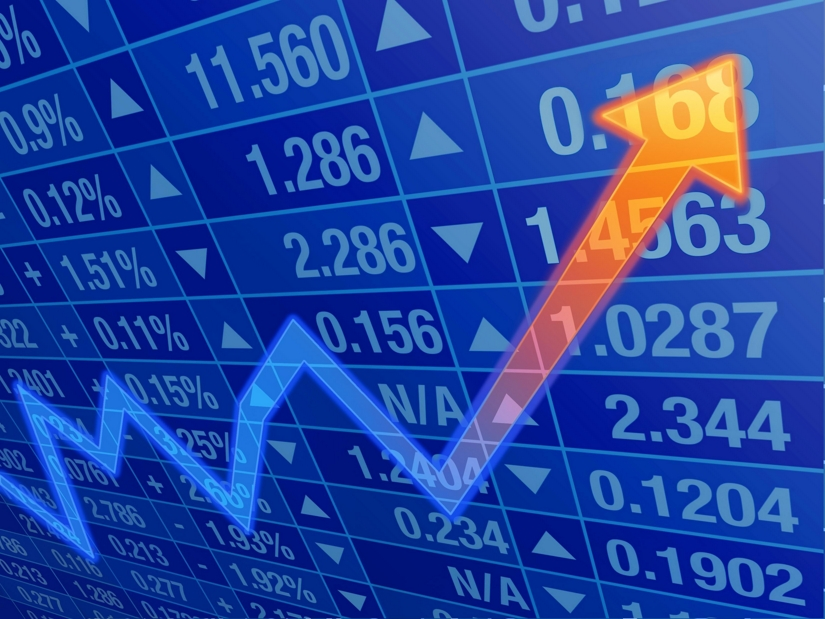
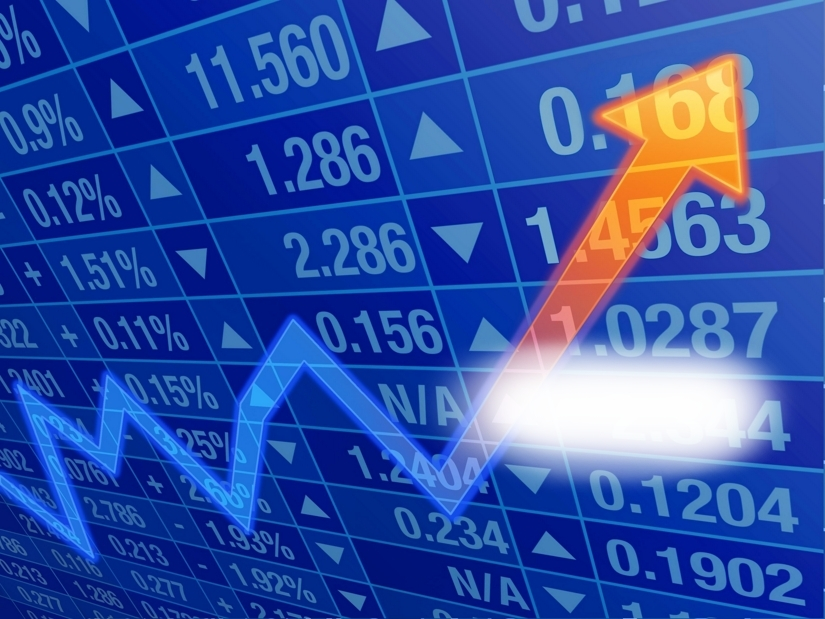
Add custom text support for stonks/stinks format

Changed region(s): [[0.5152, 0.5218, 0.9697, 0.7981]]

diff --git a/stonks.py b/stonks.py
@@ -1,12 +1,14 @@
 from PIL import Image, ImageDraw
 from emojiops import is_in_emoji_form, get_emoji
+from textops import make_text
 from args import parse_arguments
 
 BLACK = (0, 0, 0, 255)
-TRANSPARENT = (255, 255, 255, 0)
+WHITE = (255, 255, 255, 255)
 
 HEAD = (55, 36)
 BODY = (8, 227)
+TEXT = (490, 350)
 
 
 def parse_stonks(content: str):
@@ -17,8 +19,8 @@ def parse_stonks(content: str):
     stonks = {
         'head': '',
         'flip': args['flip'],  # horizontal flip
-        'bad': False
-        # TODO: customize text
+        'bad': False,
+        'custom_text': ''
     }
 
     for line in lines:
@@ -31,17 +33,26 @@ def parse_stonks(content: str):
                 if words and is_in_emoji_form(words[0]):
                     stonks['head'] = words[0].strip(':')
                     stonks['bad'] = True if idx == 1 else False
+                    if len(words) > 1:
+                        # custom text present
+                        stonks['custom_text'] = ' '.join(words[1:])
                     return stonks
-
     return None
 
 
 def make_stonks(stonks: dict, emojis={}, font='./res/fonts/NotoSans-Regular.ttf',
                 instance='', saveto='stonks_output.jpg'):
-    stonks_template = Image.open(
-        ('./res/template/stonks/bg_stinks.jpg' if stonks['bad']
-         else './res/template/stonks/bg_stonks.jpg')
-    )
+    if stonks['bad'] and stonks['custom_text']:
+        stonks_template = Image.open(
+            './res/template/stonks/bg_stinks_notext.jpg')
+    elif stonks['bad'] and not stonks['custom_text']:
+        stonks_template = Image.open('./res/template/stonks/bg_stinks.jpg')
+    elif not stonks['bad'] and stonks['custom_text']:
+        stonks_template = Image.open(
+            './res/template/stonks/bg_stonks_notext.jpg')
+    elif not stonks['bad'] and not stonks['custom_text']:
+        stonks_template = Image.open('./res/template/stonks/bg_stonks.jpg')
+
     mememan = Image.open('./res/template/stonks/headless_mememan.png')
 
     emoji = get_emoji(shortcode=stonks['head'], size=220,
@@ -53,6 +64,11 @@ def make_stonks(stonks: dict, emojis={}, font='./res/fonts/NotoSans-Regular.ttf'
     stonks_template.paste(emoji, box=HEAD,
                           mask=emoji if 'A' in emoji.getbands() else None)
     stonks_template.paste(mememan, box=BODY, mask=mememan)
+
+    if stonks['custom_text']:
+        text = make_text(stonks['custom_text'], box=(290, 95), font_path=font,
+                         color=WHITE, stroke=BLACK, emojis=emojis, instance=instance)
+        stonks_template.paste(text, box=TEXT, mask=text)
 
     stonks_template.save('./output/' + saveto)
     return stonks_template

diff --git a/textops.py b/textops.py
@@ -67,13 +67,15 @@ def wrap_text(text: str, maxwidth: int, font) -> str:
 
 
 def make_text(text: str, box=(0, 0), font_path='',
-              color=(0, 0, 0, 255), emojis={}, instance=''):
+              color=(0, 0, 0, 255), stroke=None,  # stroke can be a color tuple
+              emojis={}, instance=''):
     if contains_emojis(text, emojis):
         # fancy rendering enabled
         # redirect to fit_text_with_emojis_in_box()
         return make_emoji_text(
             text, emojis=emojis, instance=instance,
-            box=box, font_path=font_path, color=color)
+            box=box, font_path=font_path, color=color,
+            stroke=stroke)
 
     canvas = Image.new('RGBA', box, color=(255, 255, 255, 0))
     draw = Draw(canvas)
@@ -87,12 +89,13 @@ def make_text(text: str, box=(0, 0), font_path='',
         textsize = draw.multiline_textsize(wrapped, font=font)
         # when wrapped text fits in box, loop will exit, and font is remembered
 
-    draw.multiline_text((0, 0), wrapped, fill=color, font=font)
+    draw.multiline_text((0, 0), wrapped, fill=color, font=font, stroke_fill=stroke,
+                        stroke_width=(2 if stroke is not None else 0))
     return canvas
 
 
 def make_emoji_text(text: str, emojis={}, instance='', box=(0, 0),
-                    font_path='', color=(0, 0, 0, 255)):
+                    font_path='', color=(0, 0, 0, 255), stroke=None):
     # different method
     # used for text with custom emojis
     # less efficient than without
@@ -152,7 +155,8 @@ def make_emoji_text(text: str, emojis={}, instance='', box=(0, 0),
                         canvas.paste(emoji, box=(x, y))
                 else:
                     draw.text((x, y - font_size // 10),
-                              word, fill=color, font=font)
+                              word, fill=color, font=font, stroke_fill=stroke,
+                              stroke_width=(2 if stroke is not None else 0))
 
                 x += word_width + (space_width if not is_CJK(word) else 0)
 

diff --git a/memethesis.py b/memethesis.py
@@ -63,6 +63,7 @@ def prepare(toot: str, emojis={}, instance='', saveto='') -> tuple:
         return ('Stonks', {
             'stonks': stonks,
             'emojis': emojis,
+            'font': font,
             'instance': instance,
             'saveto': saveto
         })
